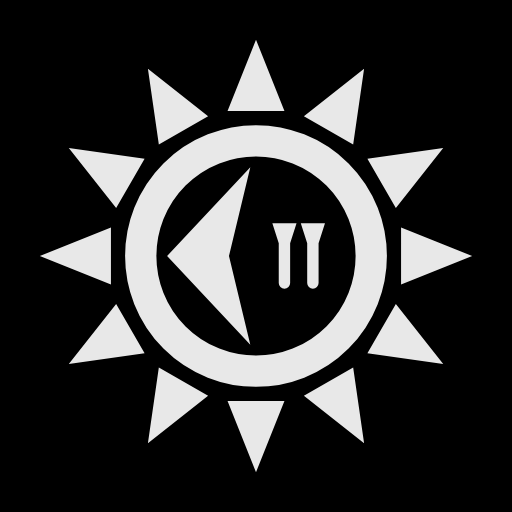
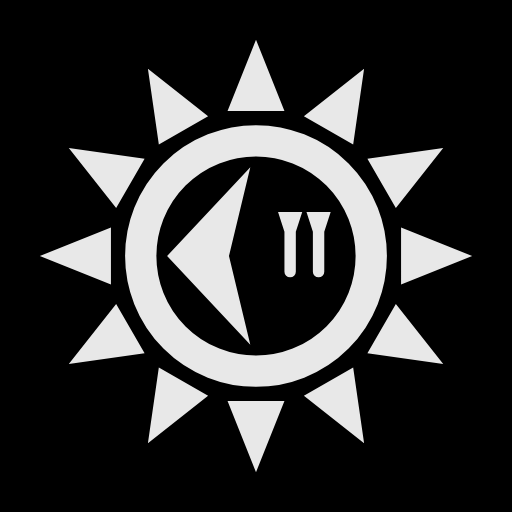
Tusinasää-kuvake: pystykiilat hiukan oikealle ja ylös
Keskikohdat 2/4 → 2,4/4,4 ja ryhmä 0,8 ylös (32 yksikön kankaalla);
oikeanpuoleisen pään kulma 0,9 kehän sisäreunasta.

Claude-Session: https://claude.ai/code/session_01FjT3WtsPDemhTRazzKC8dV

Changed region(s): [[0.5312, 0.4062, 0.6562, 0.5625]]

diff --git a/android/scripts/tusinasaa-kuvake.js b/android/scripts/tusinasaa-kuvake.js
@@ -37,8 +37,9 @@ const VALI = .75;                                // kehän sisäreunasta merkkei
 const U = R - KEHA / 2 - VALI;                   // merkkien ympyrä
 // Kulmakiila: kärki vasemmalla ympyrällä, selkä x = SELKA (kulmat ympyrällä), lovi LOVI selästä sisään.
 const SELKA = -.4, LOVI = 1.5;
-// Pystykiilat: keskikohdat, koko korkeus, pään leveys ja korkeus, varren leveys (pyöreä pää). Pystysuunnassa keskellä.
-const PYST = [2, 4], PYST_K = 4.6, PAA = 1.7, PAA_K = 1.4, VARSI = .8;
+// Pystykiilat: keskikohdat, ryhmän keskikohdan y (negatiivinen ylös), koko korkeus, pään leveys ja korkeus, varren leveys
+// (pyöreä pää). Hiukan oikealle ja ylös oikean puolikkaan keskeltä (käyttäjän pyyntö 17.11.2026).
+const PYST = [2.4, 4.4], PYST_Y = -.8, PYST_K = 4.6, PAA = 1.7, PAA_K = 1.4, VARSI = .8;
 const KARKI = R + KEHA / 2 + RAKO + KOLMIO_K;    // kolmioiden kärkien säde (15,2)
 
 const n = x => +x.toFixed(3);
@@ -61,7 +62,7 @@ function kiilat() {
   const sy = ymp(SELKA);
   let d = `M${n(C - U)},${C}L${n(C + SELKA)},${n(C - sy)}L${n(C + SELKA - LOVI)},${C}L${n(C + SELKA)},${n(C + sy)}Z`;
   for (const x of PYST) {
-    const w = PAA / 2, v = VARSI / 2, yla = -PYST_K / 2, kaula = yla + PAA_K, ala = yla + PYST_K - v;
+    const w = PAA / 2, v = VARSI / 2, yla = PYST_Y - PYST_K / 2, kaula = yla + PAA_K, ala = yla + PYST_K - v;
     d += `M${n(C + x - w)},${n(C + yla)}H${n(C + x + w)}L${n(C + x + v)},${n(C + kaula)}V${n(C + ala)}` +
       `A${v},${v} 0 0 1 ${n(C + x - v)},${n(C + ala)}V${n(C + kaula)}Z`;
   }
